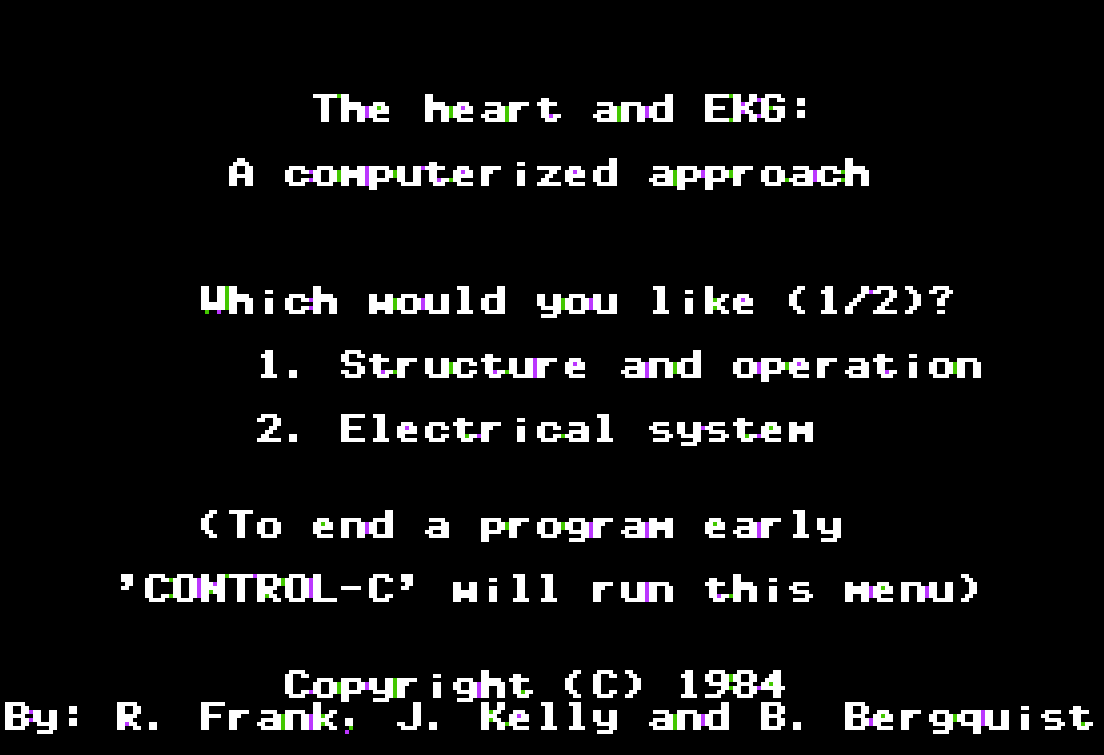
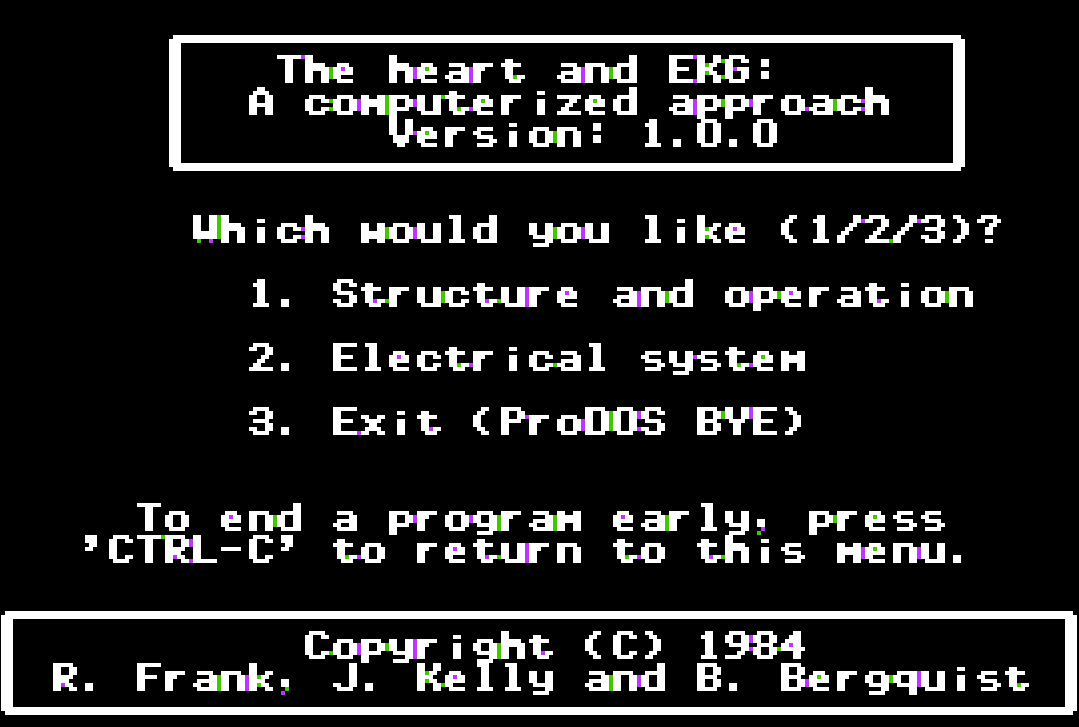
Add new font
- can draw boxes/etc
- fixed some chaining issues.

diff --git a/README.rst b/README.rst
@@ -19,16 +19,24 @@ The heart and EKG: A computerized approach
 
 Overview
 --------
-This is an educational software package developed in 1984 as part of the
+This is an educational software package developed in 1984 during the saturday
 `Biomed program <biomed.png>`_ at the Malcolm Price Laboratory School (also known 
-as Northern University High School).
-
-TBD
+as Northern University High School).  It describes the basic physiology of the
+heart and the electrical system and it's relationship to the heartbeat.
 
 Details
 -------
 The software is written mainly in Applesoft Basic with a bit of 6502 assembly
 to support the text generator and the graphics images.
+
+An interesting piece of the source is a ProDOS version of the Apple DOS Toolkit
+high resolution character generator.  The loader has been rewritten to insert
+the engine between the ProDOS BI and the first file buffers (avoiding the need to
+manipulate HIMEM).  It has two built-in typefaces that can be switched between
+at runtime.  The source makes it pretty easy to drop in your own typeface.  
+The A.B.C. editor included with FlexText can be used to generate/manipulate
+fonts in the correct format.  Note that fonts can be loaded from disk on
+the fly as well.
 
 There is a build script in this repo that is capable of generating a .po file 
 from the sources.  It requires several tools to be installed:
